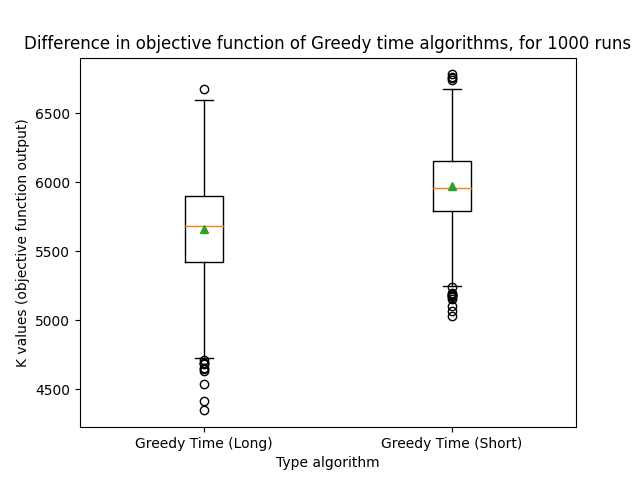
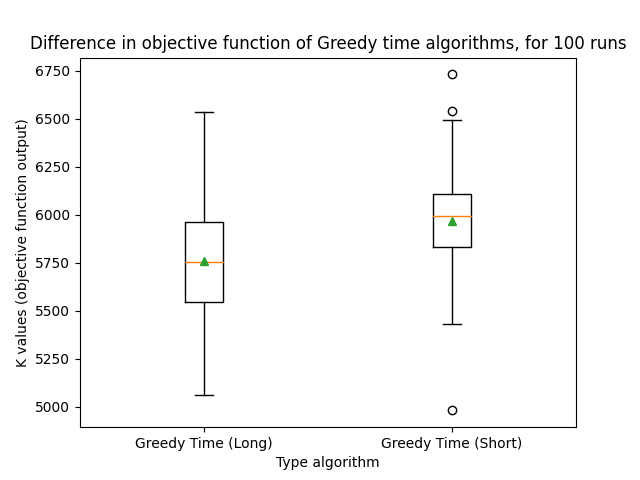
bespreking TA

diff --git a/program/algorithm.py b/program/algorithm.py
@@ -3,17 +3,39 @@ from .algorithms.trajectory import Train
 from .algorithms.hillclimber import climb_hill, random_restart
 import csv
 
+def write_to_csv(network):
+    # open a new csv file to write the solution in
+    with open('output/solution.csv', 'w', newline='') as csvfile:
+        writer = csv.writer(csvfile, delimiter = ',')
+
+        # write the header
+        header = ["train", "stations"]
+        writer.writerow(header)
+        
+        # loop through the trajectories saved in the network
+        for train in network.trajectories:
+            # make good string representation without quotation marks
+            str_repr = f'[%s]' % ', '.join(map(str, train.trajectory))
+
+            # write the name and stations of the train to the output file
+            writer.writerow([train.name, str_repr])
+
+        # calculate and add k-value
+        k = network.calc_k()
+        writer.writerow(["score", k])
+
+
 def run(which_regions = 'holland', start = 'random'):
     trains = []
 
     if which_regions == 'nl':
         traj_num = 20
-        data_stations = 'data/StationsNationaal.csv'
-        data_connections = 'data/ConnectiesNationaal.csv'
+        data_stations = 'data/case_data/StationsNationaal.csv'
+        data_connections = 'data/case_data/ConnectiesNationaal.csv'
     elif which_regions == 'holland':
         traj_num = 7
-        data_stations = 'data/StationsHolland.csv'
-        data_connections = 'data/ConnectiesHolland.csv'
+        data_stations = 'data/case_data/StationsHolland.csv'
+        data_connections = 'data/case_data/ConnectiesHolland.csv'
 
     with open('output/output.csv', 'w', newline='') as csvfile:
         writer = csv.writer(csvfile, delimiter = ',')
@@ -22,8 +44,8 @@ def run(which_regions = 'holland', start = 'random'):
 
         n = Network(data_stations, data_connections)
 
-        p_counter = 0
-        min = 0
+        # p_counter = 0
+        # min = 0
         max_min = 0
 
         # make the trains/trajectories
@@ -44,22 +66,23 @@ def run(which_regions = 'holland', start = 'random'):
 
             # write the name and stations of the train to the output file
             writer.writerow([t.name, str_repr])
-            p_counter += t.station_counter
-            min += t.time
+            # p_counter += t.station_counter
+            # min += t.time
             train_number += 1
             if t.time > max_min:
                 max_min = t.time
 
         print(max_min)
 
-        # calculate parameters for objective function
-        total_connections = len(n.connections)
-        visited_connections = total_connections - len(n.check_connections())
-        p = visited_connections/total_connections
-        t = train_number - 1
+        # # calculate parameters for objective function
+        # total_connections = len(n.connections)
+        # visited_connections = total_connections - len(n.check_connections())
+        # p = visited_connections/total_connections
+        # t = train_number - 1
 
-        # put objective function into output file
-        k = p*10000 - (t*100 + min)
+        # # put objective function into output file
+        # k = p*10000 - (t*100 + min)
+        k = n.calc_k()
         writer.writerow(["score", k])
 
     #climb_hill(n, 1000, which_regions, start)

diff --git a/program/analysis_visualisation/visualisation.py b/program/analysis_visualisation/visualisation.py
@@ -2,6 +2,8 @@ import matplotlib.pyplot as plt
 
 from ..representation.network_graph import Network
 
+import matplotlib.transforms as mtrans
+
 def visualize(network, trains, which_region = 'holland'):
 
     # check if wanted map is of holland of nl and change save option
@@ -44,7 +46,7 @@ def visualize(network, trains, which_region = 'holland'):
             y_line = [station.coord[1], other.coord[1]]
 
             # plot connections between all stations
-            plt.plot(x_line, y_line, color = 'black', linestyle='--', dashes=(5, 2))
+            # plt.plot(x_line, y_line, color = 'grey', linestyle='--')
     
     #hide axes
     ax = plt.gca()
@@ -53,7 +55,8 @@ def visualize(network, trains, which_region = 'holland'):
 
     # PLOT TRAJECTORIES
     # loop through all the trajectories
-    for traj in trains:
+    
+    for i, traj in enumerate(trains):
         # initiate empty lists for the coordinates
         x_traj = []
         y_traj = []
@@ -65,7 +68,7 @@ def visualize(network, trains, which_region = 'holland'):
             x_traj.append(station_coords[0])
             y_traj.append(station_coords[1])
         # plot the trajectory
-        plt.plot(x_traj, y_traj)
+        plt.plot(x_traj, y_traj, transform=mtrans.offset_copy(ax.transData, fig=fix, x=(i-3)*0.005, y=(i-3)*0.005))
 
     # unzip the tuples and plot them
     x,y = zip(*coords)

diff --git a/main.py b/main.py
@@ -1,4 +1,4 @@
-from program.algorithm import run
+from program.algorithm import run, write_to_csv
 from program.analysis_visualisation.visualisation import visualize
 from program.analysis_visualisation.background_map import make_map
 from program.analysis_visualisation.baseline import hist
@@ -9,16 +9,16 @@ from program.analysis_visualisation.boxplot import boxplot_eind, lineplot, boxpl
 # create a network and run the algorithm
 # you can fill in 'nl' if you want to calculate trajectory for the whole netherlands
 # you can fill in 'min_con' if you want to start the trajectories at stations with minimal connections
-# data_tuple = run('nl')
+data_tuple = run('nl')
 
-# # save data from the run
-# n = data_tuple[0]
-# trains = data_tuple[1]
+# save data from the run
+n = data_tuple[0]
+trains = data_tuple[1]
 
-# # visualize the data
+# visualize the data
 # if background map is needed plot it here
 # make_map()
-# visualize(n, trains, 'nl')
+visualize(n, trains, 'nl')
 
 # hill = climb_hill(False, 50, 'connect_with')
 # print(hill.calc_k())
@@ -29,5 +29,5 @@ from program.analysis_visualisation.boxplot import boxplot_eind, lineplot, boxpl
 # boxplot_eind(10)
 # lineplot()
 
-# boxplot_time(1000)
-# boxplot_connections(1000)
+# boxplot_time(100)
+#boxplot_connections(1000)

diff --git a/program/representation/connection_node.py b/program/representation/connection_node.py
@@ -7,6 +7,10 @@
 #   Implements the connection node that holds data for the connections between stations.
 #   Connections can be (un)visited and
 #       when one station is known, the other station at this connection can be requested
+from typing import TYPE_CHECKING
+
+if TYPE_CHECKING:
+    from .station_node import Station # type: ignore
 
 class Connection():
     """ A class that holds the data for a connection:
@@ -14,9 +18,9 @@ class Connection():
         - the time between those stations
         - if it's been visited
     """
-    def __init__(self, s1, s2, time: float):
-        self.s1 = s1
-        self.s2 = s2
+    def __init__(self, s1: 'Station', s2: 'Station', time: float):
+        self.s1: 'Station' = s1
+        self.s2: 'Station' = s2
         self.time: float = time
         self.visited: bool = False
         self.times_visited: int = 0
@@ -49,7 +53,7 @@ class Connection():
         elif self.times_visited < 0:
             raise ValueError("cannot visit connection negative times")
 
-    def get_other_station(self, station):
+    def get_other_station(self, station: 'Station'):
         """ Gets the station that is connected to the given station
                 via this connection
 

diff --git a/program/representation/station_node.py b/program/representation/station_node.py
@@ -8,7 +8,7 @@
 #   Stations can be (un)visited and connections can be added.
 
 # import classes
-from .connection_node import Connection
+from .connection_node import Connection 
 
 # import type hints
 from typing import Dict, List

diff --git a/program/algorithms/trajectory.py b/program/algorithms/trajectory.py
@@ -1,4 +1,4 @@
-from .connection_node import Connection
+from ..representation.connection_node import Connection
 import random
 import copy
 from typing import List
